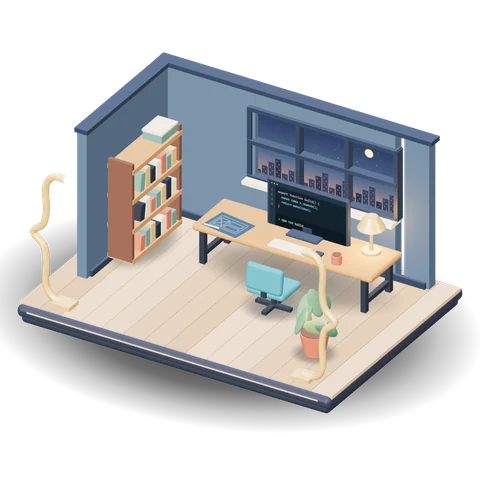
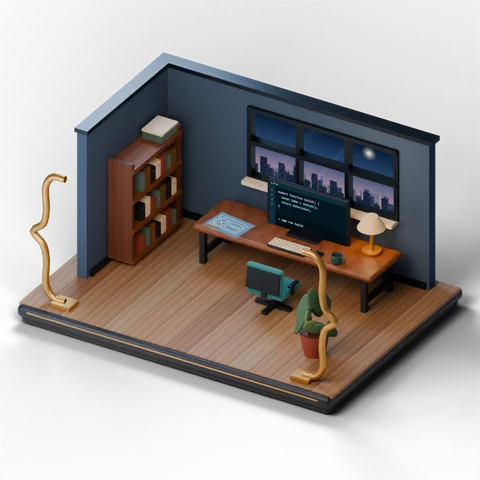
Refine workshop hero materials and lighting

diff --git a/src/components/hero-scene.ts b/src/components/hero-scene.ts
@@ -7,10 +7,12 @@ import {
   DirectionalLight,
   Group,
   InstancedMesh,
+  LatheGeometry,
   MathUtils,
   Mesh,
   MeshBasicMaterial,
   MeshStandardMaterial,
+  NoColorSpace,
   Object3D,
   OrthographicCamera,
   PlaneGeometry,
@@ -19,7 +21,9 @@ import {
   Scene,
   SphereGeometry,
   SRGBColorSpace,
+  TorusGeometry,
   TubeGeometry,
+  Vector2,
   Vector3,
   WebGLRenderer,
   type BufferGeometry,
@@ -43,33 +47,60 @@ function texture(width: number, height: number, draw: (ctx: CanvasRenderingConte
 
 function drawWindow(ctx: CanvasRenderingContext2D) {
   const sky = ctx.createLinearGradient(0, 0, 0, 256);
-  sky.addColorStop(0, "#26335b");
-  sky.addColorStop(0.64, "#526d91");
-  sky.addColorStop(1, "#ce998c");
+  sky.addColorStop(0, "#121b35");
+  sky.addColorStop(0.52, "#394e70");
+  sky.addColorStop(0.78, "#836f89");
+  sky.addColorStop(1, "#bb8887");
   ctx.fillStyle = sky;
   ctx.fillRect(0, 0, 512, 256);
 
-  ctx.fillStyle = "#ffedce";
+  const halo = ctx.createRadialGradient(407, 56, 6, 407, 56, 26);
+  halo.addColorStop(0, "#f9e6c094");
+  halo.addColorStop(1, "#f9e6c000");
+  ctx.fillStyle = halo;
+  ctx.fillRect(381, 30, 52, 52);
+  ctx.fillStyle = "#e7dfcf";
   ctx.beginPath();
-  ctx.arc(407, 56, 15, 0, Math.PI * 2);
+  ctx.arc(407, 56, 8, 0, Math.PI * 2);
   ctx.fill();
-  for (let star = 0; star < 32; star += 1) {
-    ctx.fillStyle = star % 4 === 0 ? "#ffe8c9" : "#d5dfed68";
-    ctx.fillRect((star * 143 + 19) % 503, (star * 61 + 13) % 126, 2, 2);
+  for (let star = 0; star < 24; star += 1) {
+    ctx.fillStyle = star % 6 === 0 ? "#e4ebf2ac" : "#d5dfed48";
+    ctx.fillRect((star * 143 + 19) % 503, (star * 61 + 13) % 126, 1, 1);
   }
 
-  for (let tower = 0; tower < 22; tower += 1) {
-    const x = tower * 24;
-    const height = 20 + (tower * 19) % 66;
-    const y = 256 - height;
-    ctx.fillStyle = tower % 3 === 0 ? "#2c3853" : "#394665";
-    ctx.fillRect(x, y, 21, height);
-    ctx.fillStyle = "#f6bb80ad";
-    for (let floor = 0; floor < (height - 9) / 10; floor += 1) {
-      const offset = (tower + floor) % 2 ? 5 : 12;
-      ctx.fillRect(x + offset, y + 8 + floor * 10, 3, 3);
+  const distances = [
+    { color: "#58617a", spacing: 16, base: 234, height: 29 },
+    { color: "#373e57", spacing: 23, base: 246, height: 50 },
+    { color: "#242c44", spacing: 31, base: 256, height: 65 },
+  ];
+  distances.forEach(({ color, spacing, base, height }, layer) => {
+    for (let tower = 0; tower <= 512 / spacing; tower += 1) {
+      const x = tower * spacing + (tower * 7) % 11 - layer * 10;
+      const tall = 13 + ((tower * 31 + layer * 13) % height);
+      const y = base - tall;
+      const width = spacing - 4 - (tower % 4) * 2;
+      ctx.fillStyle = color;
+      ctx.fillRect(x, y, width, 256 - y);
+      if (tower % 4 === 0 && layer === 2) ctx.fillRect(x + width * 0.45, y - 8, 1, 8);
+
+      for (let floor = y + 6; floor < 255; floor += 6) {
+        for (let column = 4; column < width - 2; column += 5) {
+          if ((tower * 13 + floor * 7 + column * 3) % 9 > 3) continue;
+          ctx.fillStyle = (floor + column) % 5 === 0 ? "#f2caa996" : "#a1b6cf66";
+          ctx.fillRect(x + column, floor, 1.5, 2);
+        }
+      }
     }
-  }
+  });
+
+  ctx.save();
+  ctx.translate(215, 5);
+  ctx.transform(1, 0, -0.7, 1, 0, 0);
+  ctx.fillStyle = "#e8f5ff0d";
+  ctx.fillRect(0, 0, 23, 256);
+  ctx.fillRect(30, 0, 6, 256);
+  ctx.fillRect(139, 0, 14, 256);
+  ctx.restore();
 }
 
 function drawMonitor(ctx: CanvasRenderingContext2D) {
@@ -142,28 +173,75 @@ function drawShadow(ctx: CanvasRenderingContext2D) {
   ctx.fillRect(0, 0, 256, 256);
 }
 
+function drawWood(ctx: CanvasRenderingContext2D) {
+  const { width, height } = ctx.canvas;
+  const image = ctx.createImageData(width, height);
+  let seed = 2017;
+  for (let y = 0; y < height; y += 1) {
+    for (let x = 0; x < width; x += 1) {
+      seed = (Math.imul(seed, 1664525) + 1013904223) >>> 0;
+      const bend = Math.sin(y * 0.015 + x * 0.051) * 3 + 1.4 * Math.sin(y * 0.037);
+      const grain = x + bend;
+      const vein = Math.pow(Math.abs(Math.sin(grain * 0.31 + Math.sin(grain * 0.09))), 8);
+      const color = 225 + Math.sin(grain * 0.15) * 10 - vein * 33 + (seed >>> 28) * 0.7;
+      const offset = (y * width + x) * 4;
+      image.data[offset] = color;
+      image.data[offset + 1] = color - 4;
+      image.data[offset + 2] = color - 9;
+      image.data[offset + 3] = 255;
+    }
+  }
+  ctx.putImageData(image, 0, 0);
+}
+
+function drawSurfaceGrain(ctx: CanvasRenderingContext2D) {
+  const { width, height } = ctx.canvas;
+  const image = ctx.createImageData(width, height);
+  let seed = 97127;
+  for (let offset = 0; offset < image.data.length; offset += 4) {
+    seed = (Math.imul(seed, 1664525) + 1013904223) >>> 0;
+    const gray = 98 + (seed >>> 26);
+    image.data[offset] = image.data[offset + 1] = image.data[offset + 2] = gray;
+    image.data[offset + 3] = 255;
+  }
+  ctx.putImageData(image, 0, 0);
+}
+
 function buildWorkshop() {
   const model = new Group();
   const blocks = new Map<Material, Matrix4[]>();
   const transform = new Object3D();
-  const matte = (color: string, roughness = 0.72) => new MeshStandardMaterial({ color, roughness });
-  const base = matte("#283348", 0.49);
-  const ink = matte("#1c2938");
-  const wall = matte("#496079");
-  const frame = matte("#26364d", 0.5);
-  const oak = matte("#b27f57");
-  const walnut = matte("#694738");
-  const paper = matte("#e6d3b7");
-  const clay = matte("#bb6657");
-  const seat = matte("#398a9c", 0.51);
-  const teal = matte("#608b85");
-  const green = matte("#628e70");
-  const sage = matte("#96ac77");
-  const brass = new MeshStandardMaterial({ color: "#e6b981", metalness: 0.38, roughness: 0.38 });
+  const wood = texture(128, 512, drawWood);
+  const surfaceGrain = texture(128, 128, drawSurfaceGrain);
+  surfaceGrain.colorSpace = NoColorSpace;
+  const matte = (name: string, color: string, roughness = 0.72) => new MeshStandardMaterial({ name, color, roughness });
+  const base = matte("Plinth", "#232935", 0.45);
+  const ink = matte("Graphite", "#202527", 0.53);
+  const wall = matte("Blue plaster", "#41546c", 0.87);
+  wall.bumpMap = surfaceGrain;
+  wall.bumpScale = 0.018;
+  const frame = matte("Blackened frame", "#212a32", 0.34);
+  frame.metalness = 0.46;
+  const oak = matte("Oiled walnut", "#90593a", 0.43);
+  const walnut = matte("Dark walnut", "#71432f", 0.47);
+  oak.map = walnut.map = wood;
+  const paper = matte("Paper and porcelain", "#e5d1b2");
+  const clay = matte("Terracotta", "#944d42", 0.61);
+  const ceramic = matte("Glazed stoneware", "#2b5659", 0.28);
+  const seat = matte("Petrol upholstery", "#277479", 0.90);
+  seat.bumpMap = surfaceGrain;
+  seat.bumpScale = 0.013;
+  const teal = matte("Cloth-bound books", "#496962");
+  const green = matte("Forest leaves", "#406348", 0.62);
+  const sage = matte("Young leaves", "#6d8554", 0.58);
+  const linen = matte("Linen shade", "#d9bd94", 0.69);
+  const coffee = matte("Coffee", "#372116", 0.23);
+  const brass = new MeshStandardMaterial({ name: "Brushed brass", color: "#c89957", metalness: 0.78, roughness: 0.35 });
   const warmLight = new MeshStandardMaterial({
-    color: "#ffd2a0",
-    emissive: "#ffae59",
-    emissiveIntensity: 1.5,
+    name: "Lamp emitter",
+    color: "#ffe0b7",
+    emissive: "#ffbe75",
+    emissiveIntensity: 1.4,
     roughness: 0.36,
   });
 
@@ -188,33 +266,37 @@ function buildWorkshop() {
     return place(new RoundedBoxGeometry(w, h, d, 2, radius), material, x, y, z);
   }
 
-  const textures: CanvasTexture[] = [];
-  function graphic(map: CanvasTexture, x: number, y: number, z: number, width: number, height: number) {
+  const textures = [wood, surfaceGrain];
+  function graphic(name: string, map: CanvasTexture, x: number, y: number, z: number, width: number, height: number) {
     textures.push(map);
-    return place(new PlaneGeometry(width, height), new MeshBasicMaterial({ map, toneMapped: false }), x, y, z);
+    return place(new PlaneGeometry(width, height), new MeshBasicMaterial({ name, map, toneMapped: false }), x, y, z);
   }
 
   rounded(ink, 0, 0.08, 0, 5.46, 0.16, 3.90, 0.075);
   rounded(base, 0, 0.21, 0, 5.56, 0.20, 4.00, 0.085);
   block(brass, 0, 0.246, 2.004, 5.16, 0.018, 0.018);
-  const woods = ["#b19377", "#bfa188", "#c7a78a", "#ac8e70"].map((color) => matte(color, 0.8));
+  const woods = ["#af8a68", "#b19778", "#af8d70", "#9d795c"].map((color, index) => {
+    const plank = matte(`Oak plank ${index + 1}`, color, 0.55);
+    plank.map = wood;
+    return plank;
+  });
   for (let plank = 0; plank < 15; plank += 1) {
     const grain = woods[(plank * 3 + Math.floor(plank / 3)) % woods.length];
     block(grain, -2.59 + plank * 0.37, 0.303, 0, 0.363, 0.058, 3.81);
   }
 
   const back = -1.70;
-  block(wall, -1.54, 1.62, back, 1.69, 2.57, 0.18);
-  block(wall, 2.17, 1.62, back, 0.44, 2.57, 0.18);
+  block(wall, -1.59, 1.62, back, 1.68, 2.57, 0.18);
+  block(wall, 2.09, 1.62, back, 0.60, 2.57, 0.18);
   block(wall, 0.52, 0.88, back, 2.54, 1.10, 0.18);
   block(wall, 0.52, 2.74, back, 2.54, 0.33, 0.18);
-  block(wall, -2.33, 1.62, -0.50, 0.17, 2.57, 2.58);
-  block(frame, -2.33, 2.92, -0.50, 0.23, 0.075, 2.64);
+  block(wall, -2.33, 1.62, -0.41, 0.17, 2.57, 2.40);
+  block(frame, -2.33, 2.92, -0.38, 0.23, 0.075, 2.40);
   block(frame, 0, 2.92, back, 4.90, 0.075, 0.24);
   block(frame, 0, 0.39, back + 0.105, 4.67, 0.105, 0.065);
   block(frame, -2.23, 0.39, -0.51, 0.063, 0.105, 2.42);
 
-  graphic(texture(512, 256, drawWindow), 0.52, 2.01, back, 2.54, 1.22);
+  graphic("Dusk skyline", texture(512, 256, drawWindow), 0.52, 2.01, back, 2.54, 1.22);
   for (const x of [-0.78, 0.08, 0.95, 1.82]) {
     block(frame, x, 2.0, back + 0.055, 0.07, 1.23, 0.16);
   }
@@ -235,8 +317,9 @@ function buildWorkshop() {
     const surface = [0.508, 1.038, 1.558][shelf];
     for (let book = 0; book < 7; book += 1) {
       const height = 0.22 + ((book * 7 + shelf * 2) % 10) * 0.012;
-      block(covers[(book + shelf * 2) % covers.length], -1.96, surface + height / 2, -1.07 + book * 0.155,
-        0.315, height, 0.122, book === 6 ? -0.14 : 0);
+      const z = -1.07 + book * 0.155;
+      block(covers[(book + shelf * 2) % covers.length], -1.96, surface + height / 2, z, 0.315, height, 0.122);
+      if (book % 3 !== 2) block(brass, -1.801, surface + height * 0.77, z, 0.006, 0.009, 0.073);
     }
   }
   block(teal, -1.99, 2.14, -0.95, 0.34, 0.15, 0.46);
@@ -248,25 +331,43 @@ function buildWorkshop() {
     block(ink, x, 0.50, -0.91, 0.076, 0.075, 0.78);
   }
   rounded(frame, 0.56, 1.40, -1.11, 1.455, 0.866, 0.087, 0.041);
-  graphic(texture(512, 288, drawMonitor), 0.56, 1.412, -1.063, 1.366, 0.77);
+  graphic("Code editor", texture(512, 288, drawMonitor), 0.56, 1.412, -1.063, 1.366, 0.77);
   block(frame, 0.56, 1.04, -1.09, 0.16, 0.21, 0.078);
   rounded(frame, 0.56, 1.038, -1.02, 0.56, 0.04, 0.30, 0.018);
-  rounded(paper, 0.53, 1.037, -0.58, 0.66, 0.035, 0.24, 0.015);
+  rounded(frame, 0.53, 1.037, -0.58, 0.66, 0.036, 0.25, 0.015);
+  for (let row = 0; row < 4; row += 1) {
+    for (let column = 0; column < 12; column += 1) {
+      if (row === 3 && column >= 4 && column <= 7) continue;
+      block(paper, 0.236 + column * 0.0535, 1.059, -0.668 + row * 0.056, 0.042, 0.014, 0.041);
+    }
+  }
+  block(paper, 0.53, 1.059, -0.50, 0.205, 0.014, 0.041);
   rounded(frame, 1.02, 1.044, -0.59, 0.14, 0.043, 0.19, 0.02);
-  const sketch = graphic(texture(256, 192, drawSketch), -0.61, 1.032, -0.69, 0.66, 0.48);
+  const sketch = graphic("Interface sketch", texture(256, 192, drawSketch), -0.61, 1.032, -0.69, 0.66, 0.48);
   sketch.rotation.set(-Math.PI / 2, 0, -0.15);
-  block(paper, -0.81, 1.047, -0.51, 0.27, 0.02, 0.018);
+  block(brass, -0.81, 1.047, -0.51, 0.27, 0.015, 0.015);
 
   place(new CylinderGeometry(0.155, 0.155, 0.038, 16), brass, 1.66, 1.048, -1.12);
   place(new CylinderGeometry(0.029, 0.029, 0.46, 12), brass, 1.66, 1.28, -1.12);
-  place(new CylinderGeometry(0.101, 0.223, 0.20, 20), brass, 1.66, 1.56, -1.12);
+  place(new CylinderGeometry(0.101, 0.223, 0.20, 32), linen, 1.66, 1.56, -1.12);
   place(new CylinderGeometry(0.197, 0.197, 0.015, 20), warmLight, 1.66, 1.45, -1.12);
-  place(new CylinderGeometry(0.087, 0.082, 0.15, 16), clay, 1.38, 1.10, -0.56);
-  place(new CylinderGeometry(0.069, 0.069, 0.01, 16), walnut, 1.38, 1.178, -0.56);
+  const cup = new LatheGeometry([
+    [0, 0], [0.066, 0], [0.080, 0.018], [0.091, 0.12], [0.087, 0.15],
+    [0.075, 0.15], [0.076, 0.116], [0.063, 0.026], [0, 0.026],
+  ].map(([radius, height]) => new Vector2(radius, height)), 22);
+  place(cup, ceramic, 1.38, 1.027, -0.56);
+  place(new TorusGeometry(0.053, 0.012, 7, 16), ceramic, 1.466, 1.098, -0.56);
+  place(new CylinderGeometry(0.072, 0.072, 0.006, 20), coffee, 1.38, 1.136, -0.56);
 
   rounded(seat, 0.62, 0.68, 0.03, 0.66, 0.11, 0.58, 0.051);
   const chairBack = rounded(seat, 0.62, 0.955, 0.303, 0.64, 0.43, 0.12, 0.058);
   chairBack.rotation.x = -0.14;
+  const backShell = rounded(frame, 0.62, 0.948, 0.348, 0.60, 0.365, 0.04, 0.019);
+  backShell.rotation.x = -0.14;
+  for (const x of [0.265, 0.975]) {
+    block(ink, x, 0.75, 0.075, 0.038, 0.165, 0.045);
+    rounded(frame, x, 0.837, 0.045, 0.08, 0.043, 0.25, 0.02);
+  }
   block(ink, 0.62, 0.78, 0.32, 0.085, 0.28, 0.063);
   place(new CylinderGeometry(0.042, 0.047, 0.29, 12), ink, 0.62, 0.49, 0.03);
   block(ink, 0.62, 0.36, 0.03, 0.62, 0.055, 0.081);
@@ -309,7 +410,7 @@ function buildWorkshop() {
 export function createHeroScene(canvas: HTMLCanvasElement, context: WebGL2RenderingContext) {
   const renderer = new WebGLRenderer({ canvas, context, alpha: true });
   renderer.toneMapping = ACESFilmicToneMapping;
-  renderer.toneMappingExposure = 1.21;
+  renderer.toneMappingExposure = 0.83;
   const scene = new Scene();
   const camera = new OrthographicCamera(-3.45, 3.45, 3.45, -3.45, 0.1, 30);
 
@@ -317,15 +418,15 @@ export function createHeroScene(canvas: HTMLCanvasElement, context: WebGL2Render
   const pmrem = new PMREMGenerator(renderer);
   const environment = pmrem.fromScene(room, 0.05, 0.1, 100, { size: 64 });
   scene.environment = environment.texture;
-  scene.environmentIntensity = 0.70;
+  scene.environmentIntensity = 0.52;
   room.dispose();
   pmrem.dispose();
 
-  const key = new DirectionalLight("#ffd8ac", 2.85);
+  const key = new DirectionalLight("#ffdeb9", 1.75);
   key.position.set(2.0, 6.1, 4);
-  const rim = new DirectionalLight("#adc9ff", 1.45);
+  const rim = new DirectionalLight("#a5c8fa", 1.46);
   rim.position.set(-3, 5, -3);
-  const lamp = new PointLight("#ffae58", 1.6, 1.8, 2);
+  const lamp = new PointLight("#ffb06b", 2.16, 1.8, 2);
   lamp.position.set(1.66, 1.36, -1.11);
   scene.add(key, rim, lamp);
 

diff --git a/src/components/Hero.module.css b/src/components/Hero.module.css
@@ -180,10 +180,18 @@
 .artwork {
   position: absolute;
   inset: 0 0 2.15rem;
+  container-type: size;
 }
 
 .poster {
-  object-fit: contain;
+  inset: 50% auto auto 50%;
+  width: min(100cqw, 100cqh);
+  height: auto;
+  transform: translate(-50%, -50%);
+  mask-image:
+    linear-gradient(90deg, transparent, #000 3%, #000 97%, transparent),
+    linear-gradient(transparent, #000 6%, #000 94%, transparent);
+  mask-composite: intersect;
 }
 
 .canvas {
